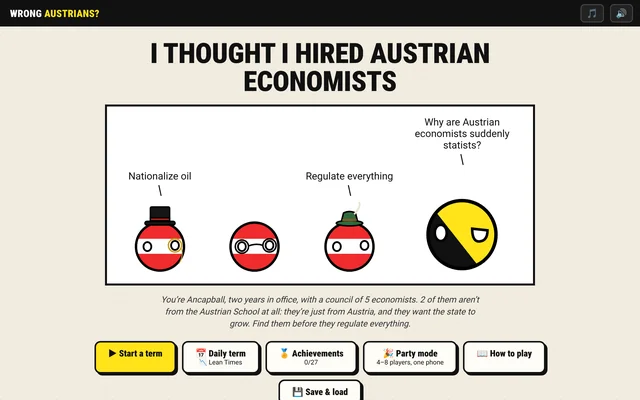
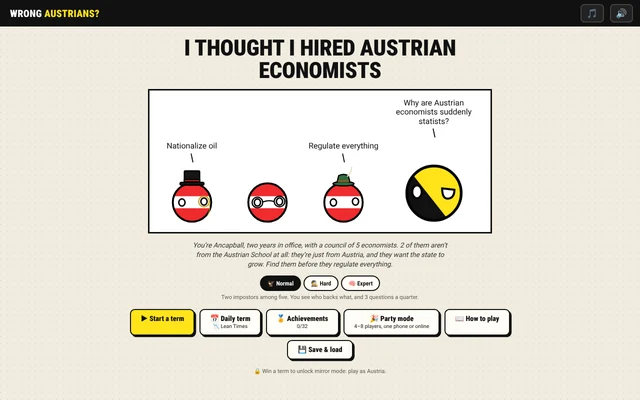
feat(wrong-austrians): add an online play guide and new screenshots
An eight-card guide explains a game of online party mode in plain
terms. It opens the first time someone visits online play, and from
the menus, lobbies, table and party rules. The thumbnail and link
preview show the current title screen.

diff --git a/src/games/wrong-austrians/online-ui.ts b/src/games/wrong-austrians/online-ui.ts
@@ -201,6 +201,43 @@ export function renderOnline(k: Kit) {
   k.screen.append(s);
 }
 
+// ---------------------------------------------------------------------------
+// The guide: how a game goes, in a few short cards
+// ---------------------------------------------------------------------------
+
+const GUIDE_SEEN = 'wrong-austrians:online-guide-seen';
+
+/** [icon, title, body] for each card. */
+export const ONLINE_GUIDE: [string, string, string][] = [
+  ['🎧', 'Get on voice', 'Everyone joins a voice call (Discord, or anything). One person <b>hosts</b> and gets a room code and an invite link; everyone else opens the link, or types the code, on their own phone or computer. Short of people? The host can add bots.'],
+  ['🤫', 'Your secret role', 'The game starts and your screen shows your role: <b>loyal</b>, or an <b>impostor</b> who wants the country to fail. Impostors also see who the other impostors are. Keep your screen to yourself.'],
+  ['📰', 'A crisis hits', 'Every quarter brings a crisis. One player is the <b>Chair</b> (🪑), and it rotates each quarter. The Chair taps <b>Deal</b>.'],
+  ['🃏', 'Propose, in secret', 'Everyone except the Chair gets <b>two policies</b>, and only you can see what they really are: sound, or bad policy in disguise. Pick one to propose. Loyal players want sound policy; impostors sneak bad policy in, but not so often they get caught.'],
+  ['🗣', 'Argue, then the Chair picks', 'The proposals go up with everyone’s names on them, but not what they really are. <b>Argue it out on voice.</b> Then the Chair enacts one. The Chair doesn’t propose, so they have to decide who to trust.'],
+  ['⏳', 'The bill comes due', 'Bad policy looks fine at first. A quarter or two later its real effect lands, <b>with the proposer’s name on it</b>, and everyone sees it. That’s your evidence. (Loyal players get bad cards too, so one bad bill isn’t proof.)'],
+  ['🔥', 'Fire someone?', 'After each quarter the Chair can call a <b>firing vote</b>. Everyone votes in secret; if more than half pick the same person, they’re fired and their role is revealed. Then a new Chair, and the next quarter.'],
+  ['🏁', 'Who wins', `The loyal side wins by firing every impostor, or by getting through all ${QUARTERS} quarters. The impostors win if either meter on top hits zero, or if they ever match the loyal players in number.`],
+];
+
+/** Shows the guide, one card at a time. */
+export function showOnlineGuide(k: Kit, step = 0) {
+  const { h, t, button } = k;
+  const [icon, title, body] = ONLINE_GUIDE[step];
+  keep(GUIDE_SEEN, true);
+  k.openOverlay(`${step + 1}/${ONLINE_GUIDE.length} · ${title}`, (box) => {
+    box.append(t('div', 'guide-icon', icon), h('p', 'walkthrough', body));
+    const dots = h('div', 'guide-dots');
+    ONLINE_GUIDE.forEach((_, i) => dots.append(h('span', i === step ? 'on' : '')));
+    const nav = h('div', 'menu');
+    if (step > 0) nav.append(button('◀ Back', 'big secondary', () => showOnlineGuide(k, step - 1)));
+    if (step < ONLINE_GUIDE.length - 1) nav.append(button('Next ▶', 'big', () => showOnlineGuide(k, step + 1)));
+    else nav.append(button('Got it', 'big', k.closeOverlay));
+    box.append(dots, nav);
+  });
+}
+
+const guideButton = () => kit.button('❓ How online play works', 'big secondary guide-btn', () => showOnlineGuide(kit));
+
 function nameInput(): HTMLInputElement {
   const { h } = kit;
   const input = h('input', 'online-name');
@@ -226,7 +263,9 @@ function menu(s: HTMLElement) {
       'For Discord (or anywhere): one person hosts, everyone else joins on their own phone or computer with the room code. Talk it out on voice. Each screen only ever shows its own player’s role, hand and vote.',
     ),
   );
-  s.append(nameInput());
+  s.append(guideButton(), nameInput());
+  // The first time anyone opens online play, walk them through it.
+  if (!load<boolean>(GUIDE_SEEN)) queueMicrotask(() => showOnlineGuide(kit));
   const resumeHost = load<HostSave>(STORE.host);
   const resumePlayer = load<PlayerSave>(STORE.player);
   if (resumeHost || resumePlayer) {
@@ -342,6 +381,7 @@ function hostScreen(s: HTMLElement) {
     );
   }
   s.append(row, sides);
+  s.append(guideButton());
   const n = r.members.length;
   s.append(t('p', 'muted', n >= MIN_PLAYERS ? `${TABLES[n].impostors} impostor${TABLES[n].impostors === 1 ? '' : 's'} at a table of ${n}.` : `You need ${MIN_PLAYERS} to ${MAX_PLAYERS} at the table (bots count).`));
   s.append(
@@ -372,6 +412,7 @@ function playerScreen(s: HTMLElement) {
     for (const m of v.lobby) list.append(t('li', m.bot ? 'bot' : '', `${m.bot ? '🤖 ' : ''}${m.name}${m.host ? ' (host)' : ''}`));
     s.append(list);
     if (p.mine?.seat === null) s.append(t('p', 'muted', 'The table is full: you’re watching.'));
+    s.append(guideButton());
   } else table(s, v, p.mine, false);
   s.append(
     button('🚪 Leave the room', 'big secondary', () => {
@@ -579,4 +620,5 @@ function table(s: HTMLElement, v: PublicView, mine: PrivateView | null, isHost: 
   }
   if (v.phase !== 'over') s.append(roster);
   if (roleBtn && v.phase !== 'roles' && v.phase !== 'over') s.append(roleBtn);
+  if (v.phase !== 'over') s.append(kit.button('❓ How it works', 'mode-tab guide-link', () => showOnlineGuide(kit)));
 }

diff --git a/src/games/wrong-austrians/main.ts b/src/games/wrong-austrians/main.ts
@@ -23,7 +23,7 @@ import {
 } from './party.ts';
 import { LEAN_LABEL, TOOL_ORDER, type ToolId, TOOLS } from './clues.ts';
 import { QUESTIONS } from './talk.ts';
-import { type Kit, onlineHud, onlineMode, openFromHash, renderOnline, resumeRecent } from './online-ui.ts';
+import { type Kit, onlineHud, onlineMode, openFromHash, renderOnline, resumeRecent, showOnlineGuide } from './online-ui.ts';
 
 // ---------------------------------------------------------------------------
 // Save
@@ -1023,7 +1023,9 @@ function partySetup() {
   );
   s.append(t('h3', 'section', '🌐 Not in the same room?'));
   s.append(t('p', 'muted', 'Play online instead: one person hosts, everyone joins on their own phone or computer (great over Discord voice), and each screen shows only its own player’s secrets. Bots can fill empty seats.'));
-  s.append(button('🌐 Play online', 'big', () => go('online')));
+  const online = h('div', 'menu');
+  online.append(button('🌐 Play online', 'big', () => go('online')), button('❓ How online play works', 'big secondary', () => showOnlineGuide(kit())));
+  s.append(online);
   els.screen.append(s);
 }
 
@@ -1043,6 +1045,7 @@ function showPartyRules() {
         <li>🌐 <b>Online</b>, it’s the same game without passing anything: everyone proposes (except the Chair) and votes on their own device at the same time, and the Chair (or the host, if the Chair wanders off) moves things along.</li>`,
       ),
       button('Got it', 'big', closeOverlay),
+      button('🌐 How online play works', 'big secondary', () => showOnlineGuide(kit())),
     );
   });
 }

diff --git a/src/games/wrong-austrians/style.css b/src/games/wrong-austrians/style.css
@@ -1220,6 +1220,41 @@ q.pitch {
     line-height: 1.5;
 }
 
+/* --- The online guide --- */
+.guide-icon {
+    font-size: 56px;
+    line-height: 1;
+    text-align: center;
+    margin: 4px 0 8px;
+}
+
+.guide-dots {
+    display: flex;
+    justify-content: center;
+    gap: 6px;
+    margin: 4px 0 12px;
+}
+
+.guide-dots span {
+    width: 8px;
+    height: 8px;
+    border-radius: 50%;
+    background: var(--line-soft, #d6d0bf);
+}
+
+.guide-dots span.on {
+    background: var(--ink);
+}
+
+.guide-btn {
+    margin: 0 0 12px;
+}
+
+.guide-link {
+    display: block;
+    margin: 12px auto 0;
+}
+
 /* --- The case file at the end --- */
 .case-file {
     margin: 14px 0;

diff --git a/ROADMAP.md b/ROADMAP.md
@@ -994,6 +994,13 @@ Chair (who knows their card is sound) always did, so the choice meant nothing. N
 out the proposals and picks one of everyone else's, on trust. Starting meters were raised to keep
 tables roughly even (4–8 players: 46, 69, 65, 61, 59).
 
+An eight-card guide, "How online play works", walks through a game in plain terms: get on voice,
+your secret role, the crisis, proposing in secret, arguing while the Chair picks, the bill coming
+due, the firing vote, and who wins. It opens by itself the first time someone visits online play,
+and from buttons on the online menu, both lobbies, the table, the party setup screen and the party
+rules. The homepage thumbnail and link preview now show the current title screen (difficulty tabs,
+online party mode).
+
 #### Online party mode ✅
 
 Party mode needed everyone round one phone, so it couldn't be played over Discord. Now one person
